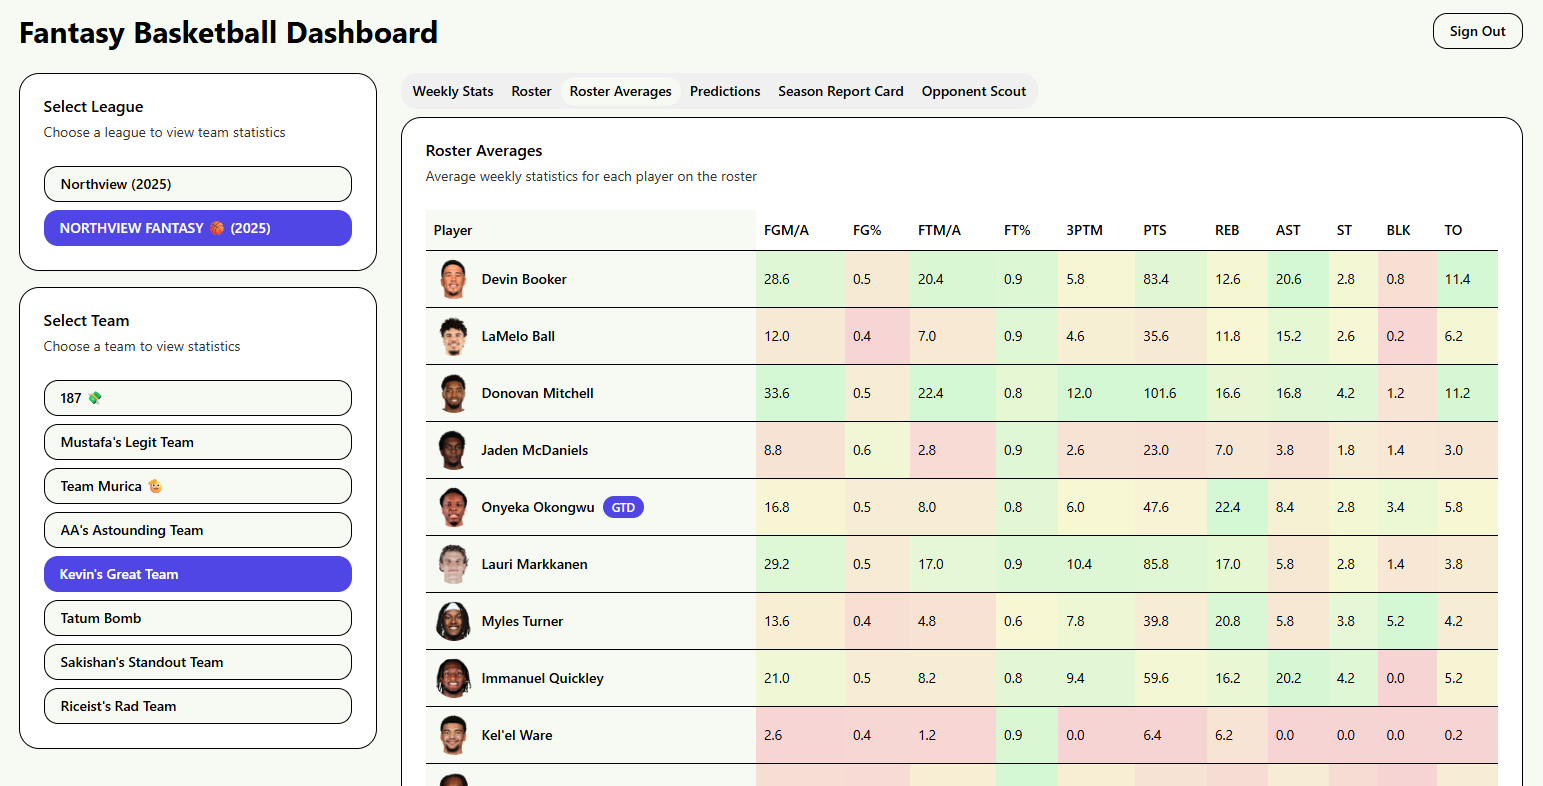
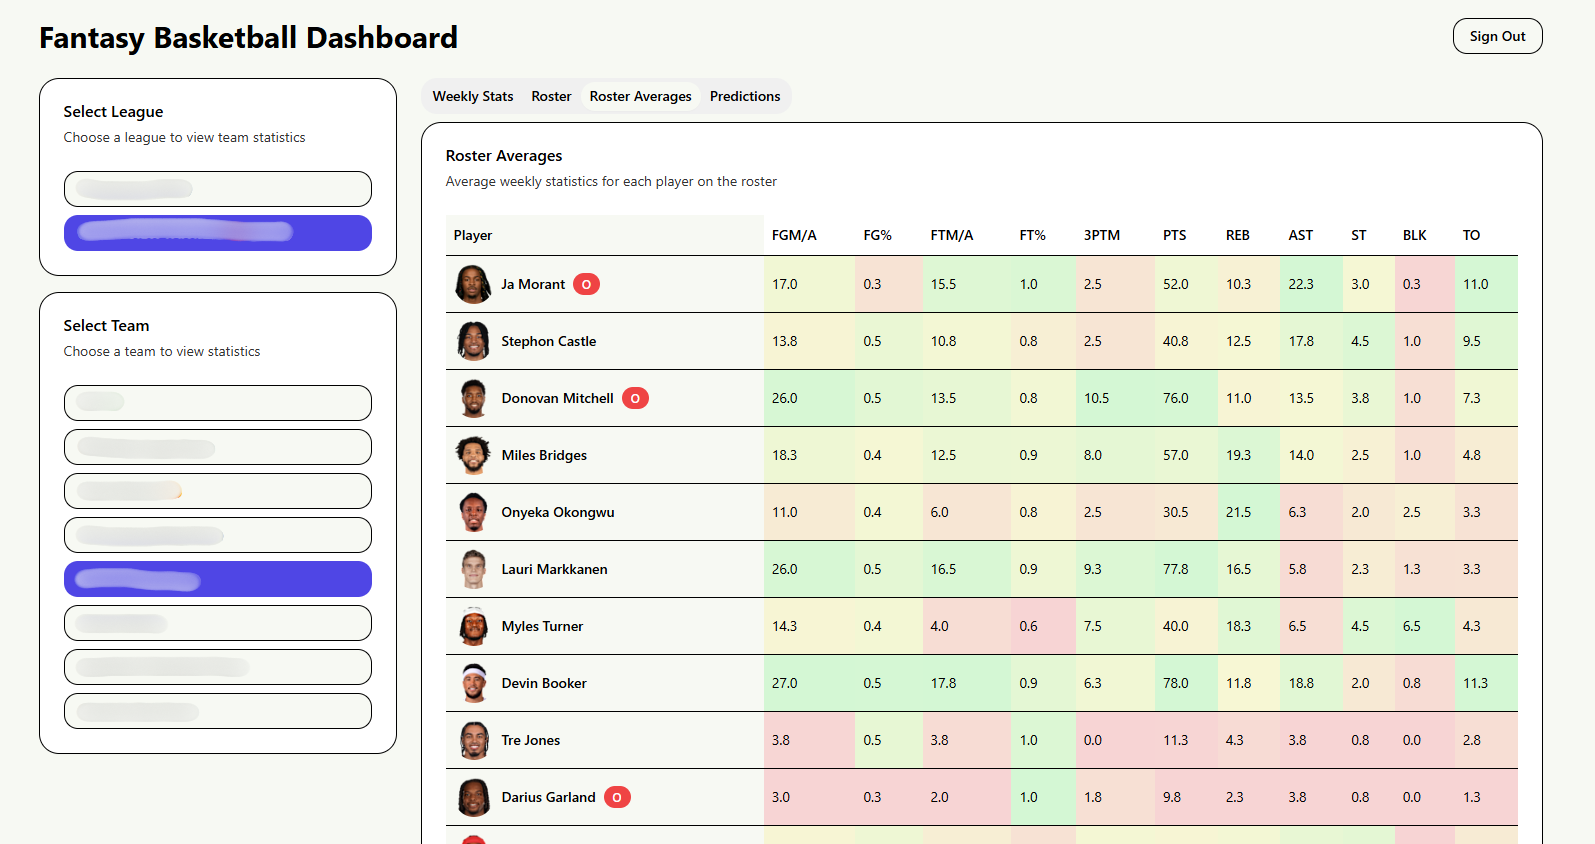
feat: refresh featured projects

diff --git a/src/content.config.ts b/src/content.config.ts
@@ -23,6 +23,8 @@ const projects = defineCollection({
     tags: z.array(z.string()).optional(),
     hide: z.boolean().optional(),
     image: z.string().optional(),
+    imageAlt: z.string().optional(),
+    imagePosition: z.string().optional(),
   }),
 });
 

diff --git a/src/data/projects/fantasy-basketball.md b/src/data/projects/fantasy-basketball.md
@@ -1,10 +1,11 @@
 ---
-order: 1
+order: 3
 title: "Yahoo Fantasy Basketball Tool"
 url: "https://fantasy-basketball-tool.vercel.app"
 githubUrl: "https://github.com/k-dang/fantasy-basketball-tool"
-tags: ["Next.js", "TypeScript"]
+tags: ["Next.js", "TypeScript", "Yahoo API"]
 image: "fantasy-basketball.png"
+imageAlt: "Fantasy Basketball dashboard showing player roster averages"
 ---
 
-A tool to help manage your fantasy basketball team.
+Analyze Yahoo fantasy leagues with weekly statistics, roster trends, matchup projections, and a no-login demo.

diff --git a/src/data/projects/csv-viewer.md b/src/data/projects/csv-viewer.md
@@ -1,0 +1,11 @@
+---
+order: 1
+title: "CSV Viewer"
+url: "https://csv-viewer.vercel.app"
+githubUrl: "https://github.com/k-dang/csv-viewer"
+tags: ["TypeScript", "Electron", "DuckDB"]
+image: "csv-viewer.png"
+imageAlt: "CSV Viewer displaying a populated CSV in its local desktop grid"
+---
+
+Inspect, filter, edit, and compare large CSV files locally in a browser or desktop app. DuckDB handles queries without uploading source files.

diff --git a/src/data/projects/win-codex-bar.md b/src/data/projects/win-codex-bar.md
@@ -1,0 +1,11 @@
+---
+order: 2
+title: "Win Codex Bar"
+githubUrl: "https://github.com/k-dang/win-codex-bar"
+tags: ["C#", "WinUI 3", ".NET"]
+image: "win-codex-bar.png"
+imageAlt: "Win Codex Bar displaying Codex usage and reset windows"
+imagePosition: "center 13%"
+---
+
+A native Windows tray app that tracks Codex and Claude Code usage, reset windows, and provider diagnostics.
